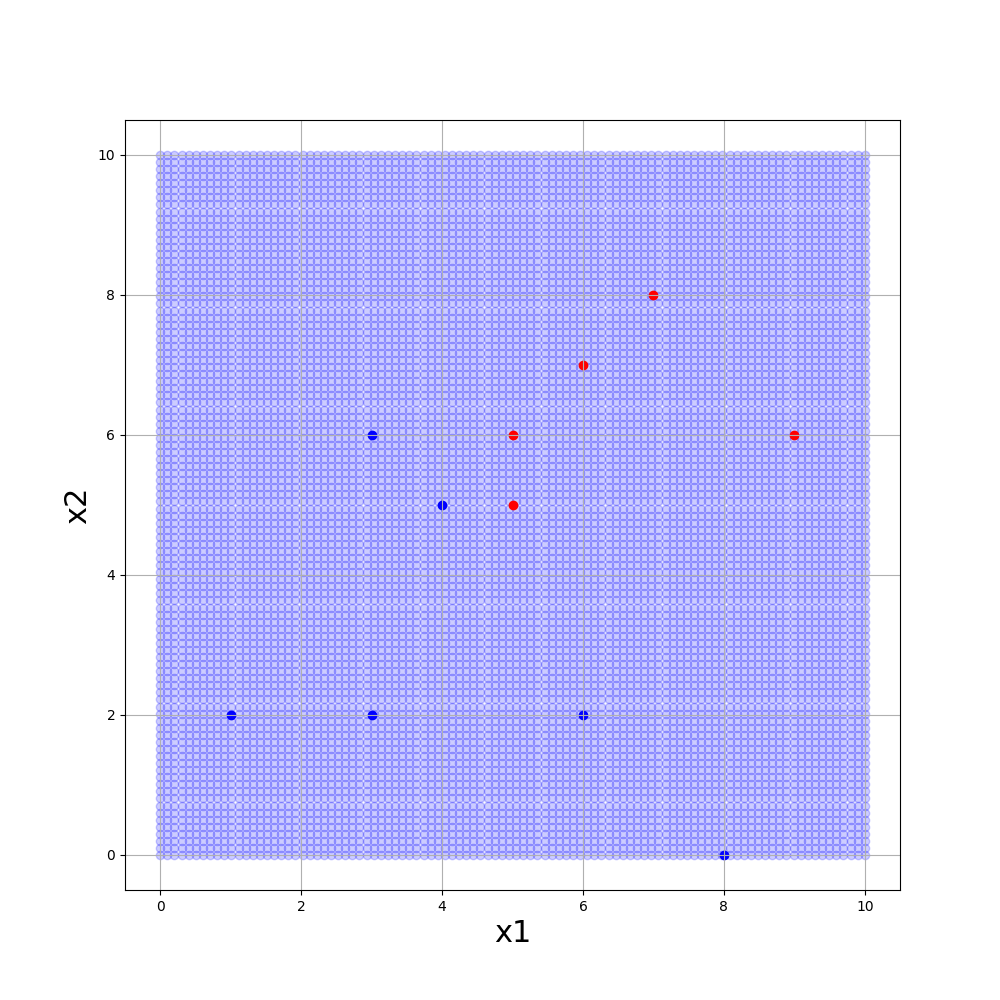
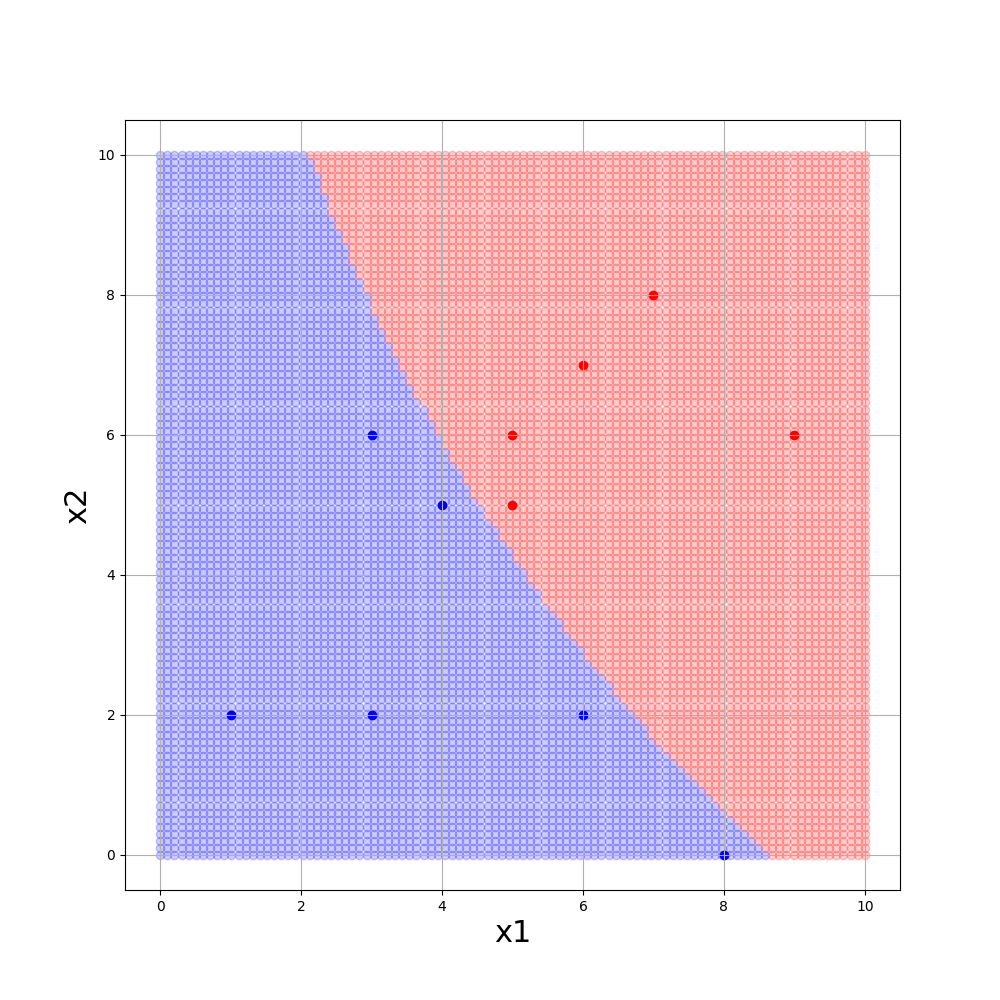
add

Changed region(s): [[0.31, 0.124, 0.868, 0.868]]

diff --git a/python/scikit/svm/ex2.py b/python/scikit/svm/ex2.py
@@ -15,7 +15,7 @@ save_trained_data_path = '/Users/panzer5/github/sample/python/scikit/svm/data/tr
 load_test_data_path = "/Users/panzer5/github/sample/python/scikit/svm/data/test.csv"
 
 # グラフ出力先パス
-save_graph_img_path = '/Users/panzer5/github/sample/python/scikit/svm/data/graph2.png'
+save_graph_img_path = '/Users/panzer5/github/sample/python/scikit/svm/data/graph3.png'
 
 # グラフ画像のサイズ
 fig_size_x = 10
@@ -35,9 +35,7 @@ train_y = train_data['x3'].values
 
 # 学習（SVM）
 # kernel = 'linear','rbf','poly','sigmoid'
-# clf = svm.SVC(gamma=0.1, C=1., kernel='rbf')
-clf = svm.SVC(gamma=0.001, C=100., kernel='rbf')
-
+clf = svm.SVC(gamma=0.01, C=10., kernel='rbf')
 clf.fit(train_X, train_y)
 
 # 学習結果を出力
